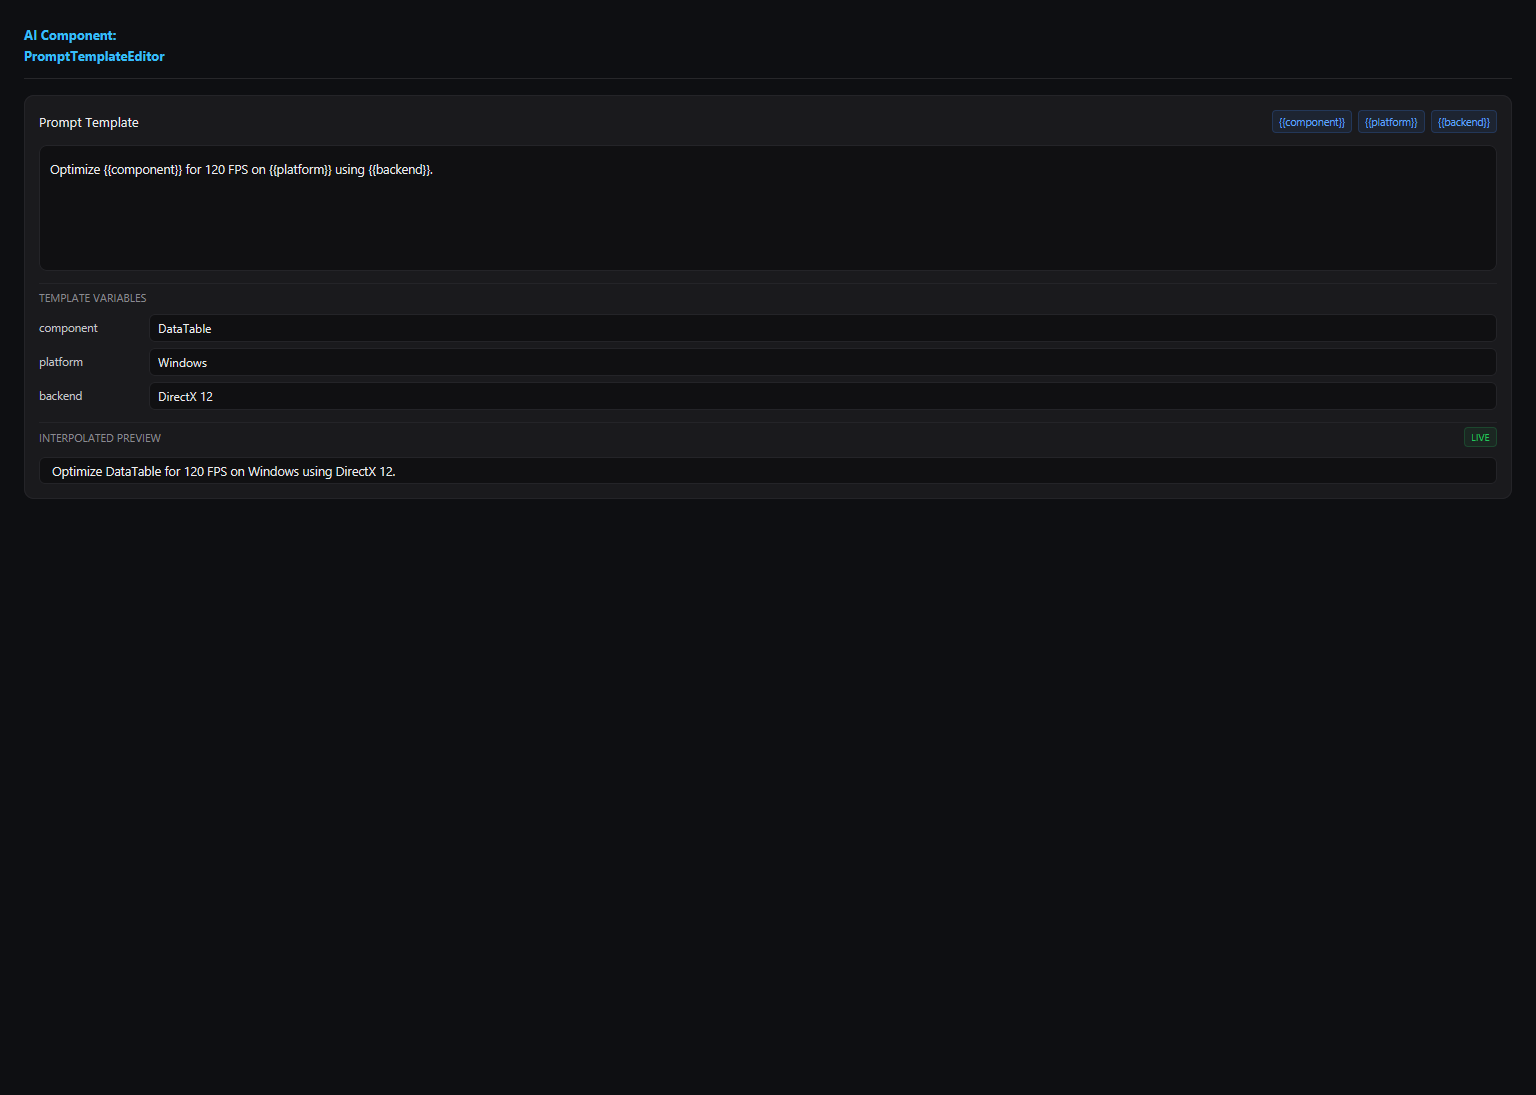
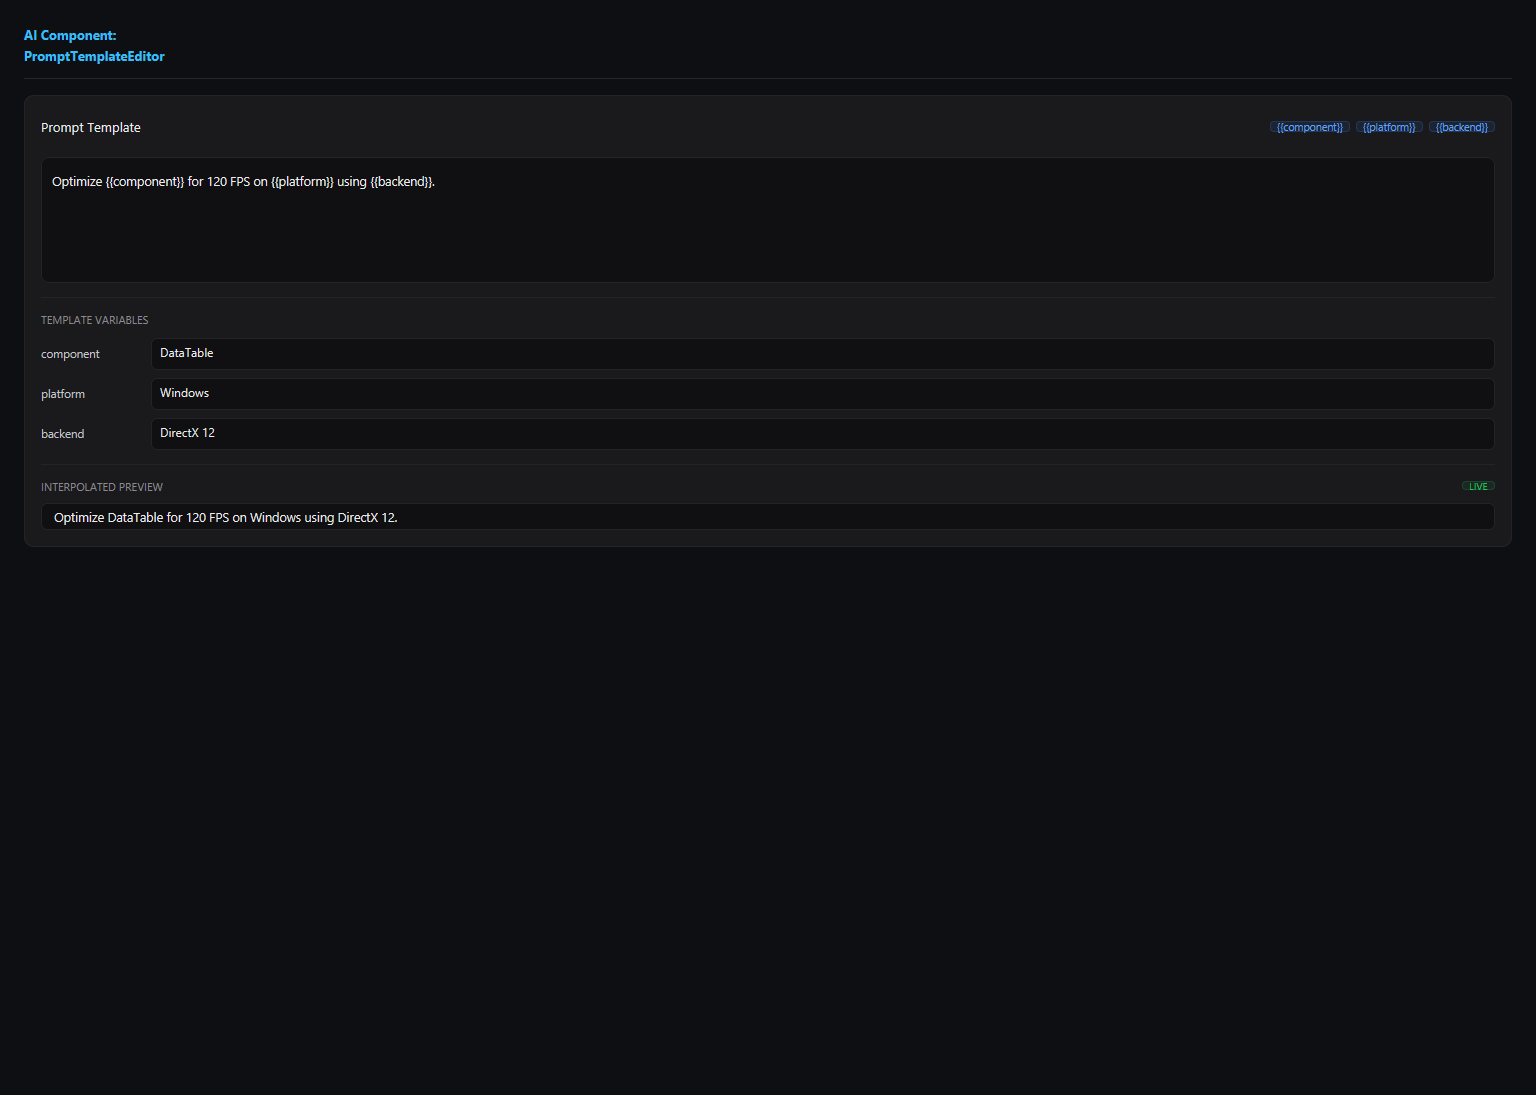
fix(ai): polish PromptSettings and PromptTemplateEditor layout

diff --git a/packages/ui/src/ai/PromptTemplateEditor.tsx b/packages/ui/src/ai/PromptTemplateEditor.tsx
@@ -21,13 +21,13 @@ export function PromptTemplateEditor({ template = '', onTemplateChange, values =
   const preview = template.replace(/\{\{\s*(\w+)\s*\}\}/g, (_, name: string) => values[name] ?? `{{${name}}}`)
 
   return (
-    <div style={{ display: 'flex', flexDirection: 'column', gap: 12, padding: 14, borderRadius: 10, borderWidth: 1, borderColor: border.subtle, backgroundColor: surface.card, width: '100%' }}>
-      <div style={{ display: 'flex', flexDirection: 'row', alignItems: 'center', justifyContent: 'space-between' }}>
+    <div style={{ display: 'flex', flexDirection: 'column', gap: 14, padding: 16, borderRadius: 10, borderWidth: 1, borderColor: border.subtle, backgroundColor: surface.card, width: '100%' }}>
+      <div style={{ display: 'flex', flexDirection: 'row', alignItems: 'center', justifyContent: 'space-between', paddingTop: 4, paddingBottom: 6 }}>
         <text style={{ fontSize: 13, fontWeight: 600, color: textTokens.primary, fontFamily: FONT }}>{label}</text>
         <div style={{ display: 'flex', flexDirection: 'row', gap: 6, alignItems: 'center' }}>
           {names.map((n) => (
-            <div key={n} style={{ backgroundColor: '#3B82F618', borderWidth: 1, borderColor: '#3B82F633', borderRadius: 4, paddingLeft: 6, paddingRight: 6, paddingTop: 2, paddingBottom: 2 }}>
-              <text style={{ fontSize: 10.5, color: '#60A5FA', fontFamily: FONT }}>{`{{${n}}}`}</text>
+            <div key={n} style={{ backgroundColor: '#3B82F618', borderWidth: 1, borderColor: '#3B82F633', borderRadius: 4, paddingLeft: 6, paddingRight: 6, paddingTop: 4, paddingBottom: 4 }}>
+              <text style={{ fontSize: 10.5, color: '#60A5FA', fontFamily: FONT, lineHeight: 1 }}>{`{{${n}}}`}</text>
             </div>
           ))}
         </div>
@@ -42,19 +42,19 @@ export function PromptTemplateEditor({ template = '', onTemplateChange, values =
       />
 
       {names.length > 0 && (
-        <div style={{ display: 'flex', flexDirection: 'column', gap: 8, paddingTop: 4, borderTopWidth: 1, borderColor: border.subtle }}>
+        <div style={{ display: 'flex', flexDirection: 'column', gap: 10, paddingTop: 12, borderTopWidth: 1, borderColor: border.subtle }}>
           <text style={{ fontSize: 11, fontWeight: 600, color: textTokens.muted, fontFamily: FONT }}>TEMPLATE VARIABLES</text>
-          <div style={{ display: 'flex', flexDirection: 'column', gap: 6 }}>
+          <div style={{ display: 'flex', flexDirection: 'column', gap: 8 }}>
             {names.map((n) => (
-              <div key={n} style={{ display: 'flex', flexDirection: 'row', alignItems: 'center', gap: 10 }}>
-                <div style={{ width: 100, flexShrink: 0, display: 'flex', alignItems: 'center' }}>
+              <div key={n} style={{ display: 'flex', flexDirection: 'row', alignItems: 'center', gap: 10, minHeight: 32 }}>
+                <div style={{ width: 100, flexShrink: 0, height: 32, display: 'flex', alignItems: 'center', justifyContent: 'flex-start' }}>
                   <text style={{ fontSize: 11.5, color: textTokens.secondary, fontFamily: FONT, lineHeight: 1 }}>{n}</text>
                 </div>
                 <input
                   value={values[n] ?? ''}
                   placeholder={`Value for ${n}`}
                   onChange={(e) => onValuesChange?.({ ...values, [n]: e.value ?? '' })}
-                  style={{ flexGrow: 1, height: 28, borderRadius: 6, borderWidth: 1, borderColor: border.subtle, backgroundColor: '#101012', paddingLeft: 8, paddingRight: 8, fontSize: 12, fontFamily: FONT, color: textTokens.primary, display: 'flex', alignItems: 'center' }}
+                  style={{ flexGrow: 1, height: 32, borderRadius: 6, borderWidth: 1, borderColor: border.subtle, backgroundColor: '#101012', paddingLeft: 8, paddingRight: 8, fontSize: 12, fontFamily: FONT, color: textTokens.primary }}
                 />
               </div>
             ))}
@@ -62,14 +62,14 @@ export function PromptTemplateEditor({ template = '', onTemplateChange, values =
         </div>
       )}
 
-      <div style={{ display: 'flex', flexDirection: 'column', gap: 6, paddingTop: 4, borderTopWidth: 1, borderColor: border.subtle }}>
+      <div style={{ display: 'flex', flexDirection: 'column', gap: 8, paddingTop: 12, borderTopWidth: 1, borderColor: border.subtle }}>
         <div style={{ display: 'flex', flexDirection: 'row', alignItems: 'center', justifyContent: 'space-between' }}>
           <text style={{ fontSize: 11, fontWeight: 600, color: textTokens.muted, fontFamily: FONT }}>INTERPOLATED PREVIEW</text>
-          <div style={{ backgroundColor: '#22C55E14', borderWidth: 1, borderColor: '#22C55E33', borderRadius: 4, paddingLeft: 6, paddingRight: 6, paddingTop: 1, paddingBottom: 1 }}>
-            <text style={{ fontSize: 10, color: '#22C55E', fontFamily: FONT }}>LIVE</text>
+          <div style={{ backgroundColor: '#22C55E14', borderWidth: 1, borderColor: '#22C55E33', borderRadius: 4, paddingLeft: 6, paddingRight: 6, paddingTop: 3, paddingBottom: 3 }}>
+            <text style={{ fontSize: 10, color: '#22C55E', fontFamily: FONT, lineHeight: 1 }}>LIVE</text>
           </div>
         </div>
-        <div style={{ backgroundColor: '#101012', borderRadius: 6, padding: 12, borderWidth: 1, borderColor: border.subtle, marginTop: 4 }}>
+        <div style={{ backgroundColor: '#101012', borderRadius: 6, padding: 12, borderWidth: 1, borderColor: border.subtle }}>
           <text style={{ fontSize: 12.5, color: textTokens.primary, fontFamily: FONT, whiteSpace: 'normal', lineHeight: 1.5 }}>{preview}</text>
         </div>
       </div>

diff --git a/packages/ui/src/layout/FormCard.tsx b/packages/ui/src/layout/FormCard.tsx
@@ -23,10 +23,19 @@ export interface FormCardProps {
 }
 
 export function FormCard({ title, description, children, actions, submitLabel = 'Save', cancelLabel = 'Cancel', onSubmit, onCancel, width }: FormCardProps) {
+  const footer =
+    actions ??
+    (onSubmit || onCancel ? (
+      <>
+        {onCancel ? <Button variant="ghost" onClick={onCancel}>{cancelLabel}</Button> : null}
+        {onSubmit ? <Button onClick={onSubmit}>{submitLabel}</Button> : null}
+      </>
+    ) : null)
+
   return (
     <Card padding={16} width={width}>
       {title || description ? (
-        <div style={{ display: 'flex', flexDirection: 'column', gap: 3, paddingBottom: 14 }}>
+        <div style={{ display: 'flex', flexDirection: 'column', gap: 4, marginBottom: 14 }}>
           {title ? <text style={{ fontSize: 14, fontWeight: 600, color: textTokens.primary, fontFamily: FONT }}>{title}</text> : null}
           {description ? <text style={{ fontSize: 12, color: textTokens.muted, fontFamily: FONT }}>{description}</text> : null}
         </div>
@@ -34,15 +43,11 @@ export function FormCard({ title, description, children, actions, submitLabel = 
 
       <div style={{ display: 'flex', flexDirection: 'column', gap: 14 }}>{children}</div>
 
-      <div style={{ display: 'flex', flexDirection: 'row', gap: 8, justifyContent: 'flex-end', paddingTop: 14, borderTopWidth: 1, borderColor: border.subtle, marginTop: 14 }}>
-        {actions ??
-          (onSubmit || onCancel ? (
-            <>
-              {onCancel ? <Button variant="ghost" onClick={onCancel}>{cancelLabel}</Button> : null}
-              {onSubmit ? <Button onClick={onSubmit}>{submitLabel}</Button> : null}
-            </>
-          ) : null)}
-      </div>
+      {footer ? (
+        <div style={{ display: 'flex', flexDirection: 'row', gap: 8, justifyContent: 'flex-end', paddingTop: 14, borderTopWidth: 1, borderColor: border.subtle, marginTop: 14 }}>
+          {footer}
+        </div>
+      ) : null}
     </Card>
   )
 }

diff --git a/packages/ui/src/inputs/Field.tsx b/packages/ui/src/inputs/Field.tsx
@@ -28,7 +28,7 @@ export function Field({ label, helper, error, children, required = false, disabl
   const hintColor = error ? semantic.mention : text.muted
 
   return (
-    <div style={{ display: 'flex', flexDirection: 'column', gap: 5, opacity: disabled ? 0.5 : 1 }}>
+    <div style={{ display: 'flex', flexDirection: 'column', gap: 8, opacity: disabled ? 0.5 : 1 }}>
       {label ? (
         <text style={{ fontSize: 12, fontWeight: 600, color: text.secondary, fontFamily: FONT }}>
           {label}
